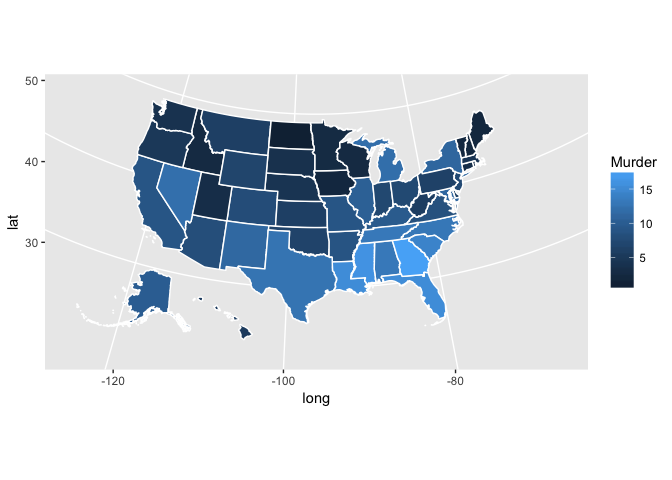
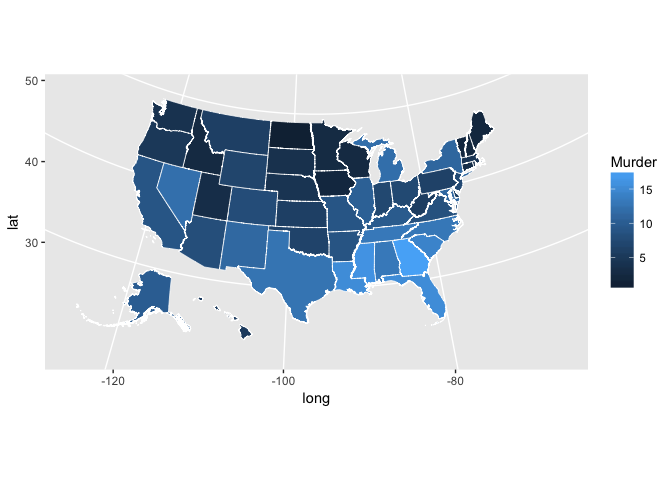
Change package name from library(uimapr) to library(urbnmapr)

diff --git a/README.md b/README.md
@@ -1,15 +1,15 @@
 
 <!-- README.md is generated from README.Rmd. Please edit that file -->
-uimapr
-======
+urbnmaps
+========
 
-[![Travis-CI Build Status](https://travis-ci.org/UrbanInstitute/uimapr.svg?branch=master)](https://travis-ci.org/UrbanInstitute/uimapr)
+[![Travis-CI Build Status](https://travis-ci.org/UrbanInstitute/urbnmaps.svg?branch=master)](https://travis-ci.org/UrbanInstitute/urbnmaps)
 
-The `uimapr` package provides state and county shapefiles in `tibble` format that is compatible to map with `ggplot2`.
+The `urbnmaps` package provides state and county shapefiles in `tibble` format that is compatible to map with `ggplot2`.
 
 Shapefiles include Alaska and Hawaii, transformed to be displayed as insets within the continental United States.
 
-This package is heavily inspired by and derived in part from the [fiftystater package](https://cran.r-project.org/package=fiftystater) by William Murphy. In contrast, `uimapr`:
+This package is heavily inspired by and derived in part from the [fiftystater package](https://cran.r-project.org/package=fiftystater) by William Murphy. In contrast, `urbnmaps`:
 
 -   Uses shapefiles from the US Census Bureau
 -   Converts the shapefile data to a `tibble` dataframe
@@ -19,17 +19,17 @@ This package is heavily inspired by and derived in part from the [fiftystater pa
 Installation
 ------------
 
-You can install the latest version of `uimapr` from GitHub:
+You can install the latest version of `urbnmaps` from GitHub:
 
 ``` r
 # install.packages(devtools)
-devtools::install_github("UrbanInstitute/uimapr")
+devtools::install_github("UrbanInstitute/urbnmaps")
 ```
 
 Usage
 -----
 
-`uimapr` contains two `tibble` dataframes:
+`urbnmaps` contains two `tibble` dataframes:
 
 -   `states`
 -   `counties`
@@ -38,7 +38,7 @@ The `states` and `counties` tibbles can be used with `geom_polygon()` and `coord
 
 ``` r
 library(tidyverse)
-library(uimapr)
+library(urbnmaps)
 
 states %>%
   ggplot(aes(long, lat, group = group)) +
@@ -68,7 +68,7 @@ USArrests %>%
   select(state_name, Murder) %>%
   left_join(states, by = "state_name") %>%
   ggplot(aes(long, lat, group = group, fill = Murder)) +
-    geom_polygon(color = "#ffffff") +
+    geom_polygon(color = "#ffffff", size = 0.25) +
     coord_map(projection = "albers", lat0 = 39, lat1 = 45)
 ```
 
@@ -77,16 +77,8 @@ USArrests %>%
 ``` r
 household_data <- left_join(countydata, counties, by = "county_fips")
 
-anti_join(countydata, counties, by = "county_fips")
-```
+mismatches <- anti_join(countydata, counties, by = "county_fips")
 
-    ## # A tibble: 2 x 5
-    ##    year county_fips hhpop horate medhhincome
-    ##   <dbl> <chr>       <dbl>  <dbl>       <dbl>
-    ## 1  2015 02270        2194  0.599       61900
-    ## 2  2015 46113        4721  0.621       46000
-
-``` r
 household_data %>%
   ggplot(aes(long, lat, group = group, fill = medhhincome)) +
     geom_polygon(color = "#ffffff", size = 0.05) +
@@ -98,7 +90,7 @@ household_data %>%
 Styles
 ------
 
-`library(uimapr)` works well with the [Urban Institute `ggplot2` theme.](https://github.com/UrbanInstitute/urban_R_theme)
+`library(urbnmaps)` works well with the [Urban Institute `ggplot2` theme.](https://github.com/UrbanInstitute/urban_R_theme)
 
 ``` r
 source("https://raw.githubusercontent.com/UrbanInstitute/urban_R_theme/urban_R_theme_revamp/urban_theme.R")
